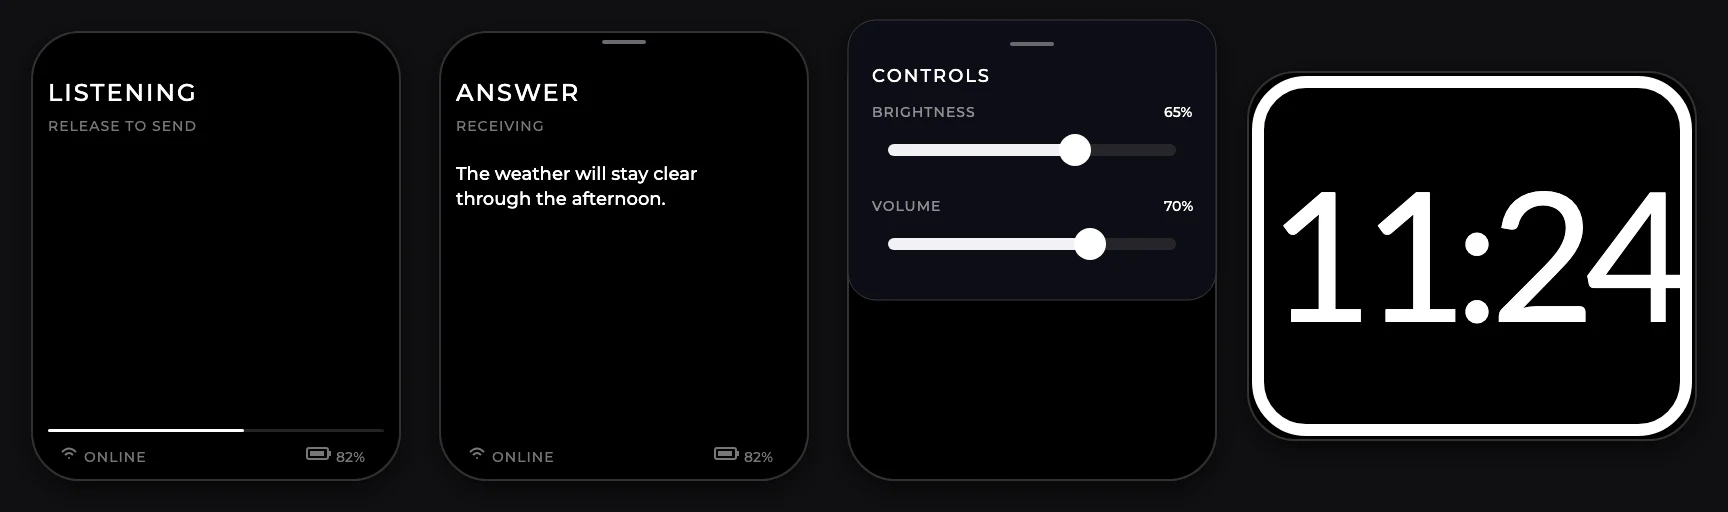
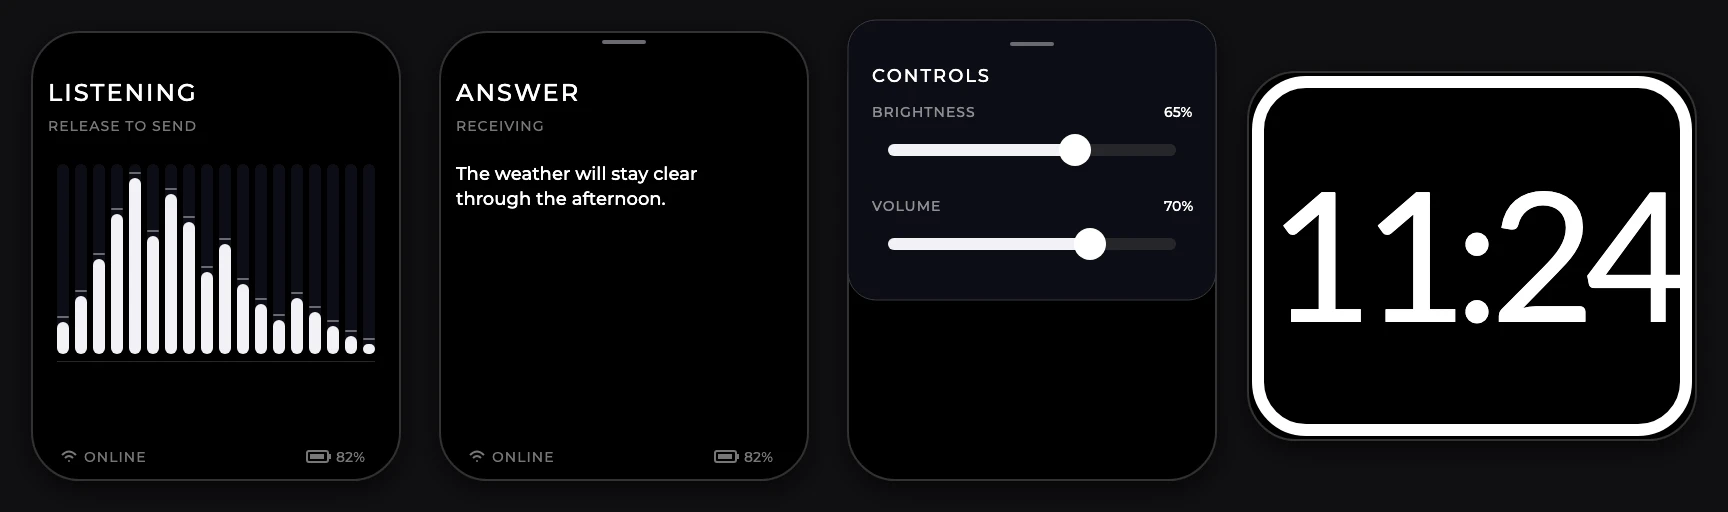
Polish the listening view

diff --git a/firmware/main/recording_spectrum_view.hpp b/firmware/main/recording_spectrum_view.hpp
@@ -12,7 +12,7 @@ namespace chatesp::ui::recording_spectrum {
 namespace {
 
 constexpr std::int32_t kWidth = 336;
-constexpr std::int32_t kHeight = 238;
+constexpr std::int32_t kHeight = 198;
 constexpr std::int32_t kPlotHeight = 190;
 constexpr std::int32_t kBarWidth = 12;
 constexpr std::int32_t kBarGap = 6;
@@ -94,19 +94,6 @@ void draw(lv_event_t *event) {
         kPlotHeight + 7, kBarsWidth, 1);
 }
 
-lv_obj_t *create_frequency_label(
-    const char *text, lv_align_t alignment, std::int32_t x) {
-    lv_obj_t *label = lv_label_create(root);
-    lv_label_set_text_static(label, text);
-    lv_obj_set_style_text_color(
-        label, lv_color_hex(0x777777), LV_PART_MAIN);
-    lv_obj_set_style_text_font(
-        label, &lv_font_montserrat_14, LV_PART_MAIN);
-    lv_obj_set_style_text_letter_space(label, 1, LV_PART_MAIN);
-    lv_obj_align(label, alignment, x, 0);
-    return label;
-}
-
 }  // namespace
 
 inline void reset() {
@@ -124,8 +111,6 @@ inline void create(lv_obj_t *screen) {
     lv_obj_align(root, LV_ALIGN_TOP_LEFT, 16, 132);
     lv_obj_clear_flag(root, LV_OBJ_FLAG_SCROLLABLE);
     lv_obj_add_event_cb(root, draw, LV_EVENT_DRAW_MAIN, nullptr);
-    (void)create_frequency_label("125 HZ", LV_ALIGN_BOTTOM_LEFT, 9);
-    (void)create_frequency_label("8 KHZ", LV_ALIGN_BOTTOM_RIGHT, -9);
     reset();
     lv_obj_add_flag(root, LV_OBJ_FLAG_HIDDEN);
 }
